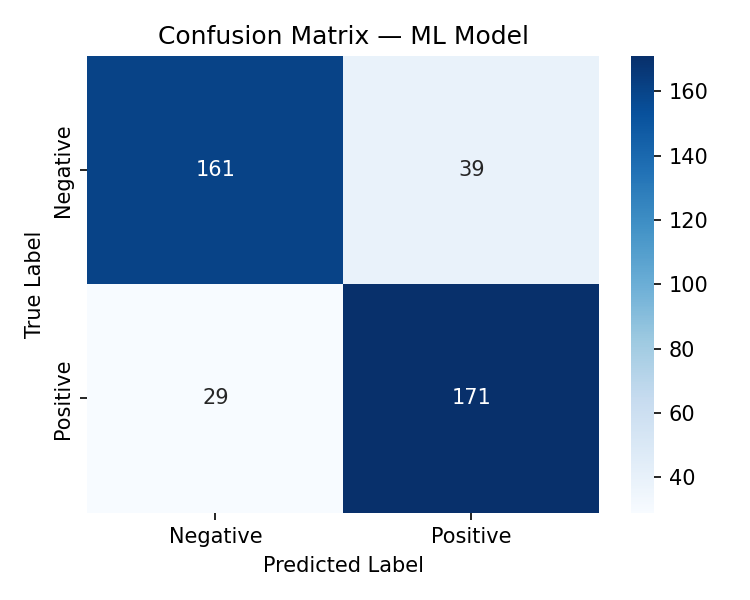
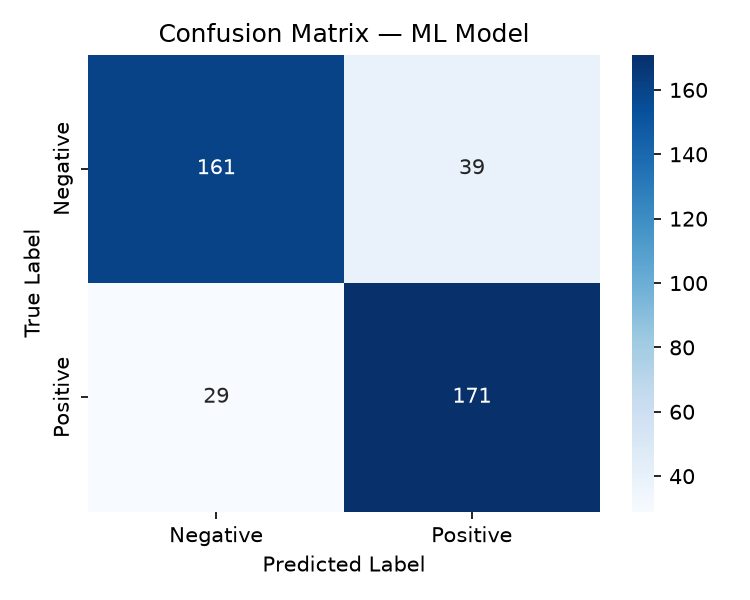
model comp

diff --git a/frontend/components/compose-form.tsx b/frontend/components/compose-form.tsx
@@ -1,6 +1,6 @@
 "use client"
 
-import { useState, useCallback, useRef } from "react"
+import { useState, useCallback, useRef, useEffect } from "react"
 import { useRouter } from "next/navigation"
 import { Button } from "@/components/ui/button"
 import { Textarea } from "@/components/ui/textarea"
@@ -13,6 +13,7 @@ import {
 } from "lucide-react"
 import { cn } from "@/lib/utils"
 import { toast } from "sonner"
+import { ModelCompareCard } from "@/components/model-compare-card"
 
 const emotionIcons: Record<string, React.ElementType> = {
   Positive: Smile,
@@ -218,6 +219,9 @@ export function ComposeForm() {
               </Button>
             </CardContent>
           </Card>
+
+          {/* Model comparison — VADER vs trained classifier, shown live as you type */}
+          <ModelCompareCard message={message} />
         </div>
 
         {/* RIGHT — real-time analysis */}

diff --git a/backend/main.py b/backend/main.py
@@ -15,6 +15,7 @@ from sqlalchemy.orm import Session
 from dotenv import load_dotenv
 from starlette.middleware.sessions import SessionMiddleware
 from sentiment_ml import analyze_sentiment_ml
+
 load_dotenv()
 
 from database import get_db, init_db
@@ -569,6 +570,44 @@ def analyze_message(req: AnalyzeRequest):
     risk = get_risk(sentiment.emotion)
     encryption_label, _ = get_encryption_policy(risk)
     return AnalyzeResponse(emotion=sentiment.emotion, risk=risk, encryption=encryption_label)
+
+
+
+
+class CompareRequest(BaseModel):
+    message: str
+
+
+class CompareResponse(BaseModel):
+    vader: AnalyzeResponse
+    ml_model: AnalyzeResponse
+    agreement: bool
+
+
+@app.post("/analyze-compare", response_model=CompareResponse)
+def analyze_compare(req: CompareRequest):
+    """
+    Run both VADER (rule-based) and the trained TF-IDF + Logistic Regression
+    classifier on the same message, for side-by-side comparison.
+    """
+    vader_sentiment = analyze_sentiment(req.message)
+    vader_risk = get_risk(vader_sentiment.emotion)
+    vader_encryption, _ = get_encryption_policy(vader_risk)
+
+    try:
+        ml_sentiment = analyze_sentiment_ml(req.message)
+        ml_risk = get_risk(ml_sentiment.emotion)
+        ml_encryption, _ = get_encryption_policy(ml_risk)
+    except FileNotFoundError:
+        ml_sentiment = vader_sentiment
+        ml_risk = vader_risk
+        ml_encryption = vader_encryption
+
+    return CompareResponse(
+        vader=AnalyzeResponse(emotion=vader_sentiment.emotion, risk=vader_risk, encryption=vader_encryption),
+        ml_model=AnalyzeResponse(emotion=ml_sentiment.emotion, risk=ml_risk, encryption=ml_encryption),
+        agreement=(vader_sentiment.emotion == ml_sentiment.emotion),
+    )
 
 
 # ─── Analytics ───────────────────────────────────────────────────────────────
